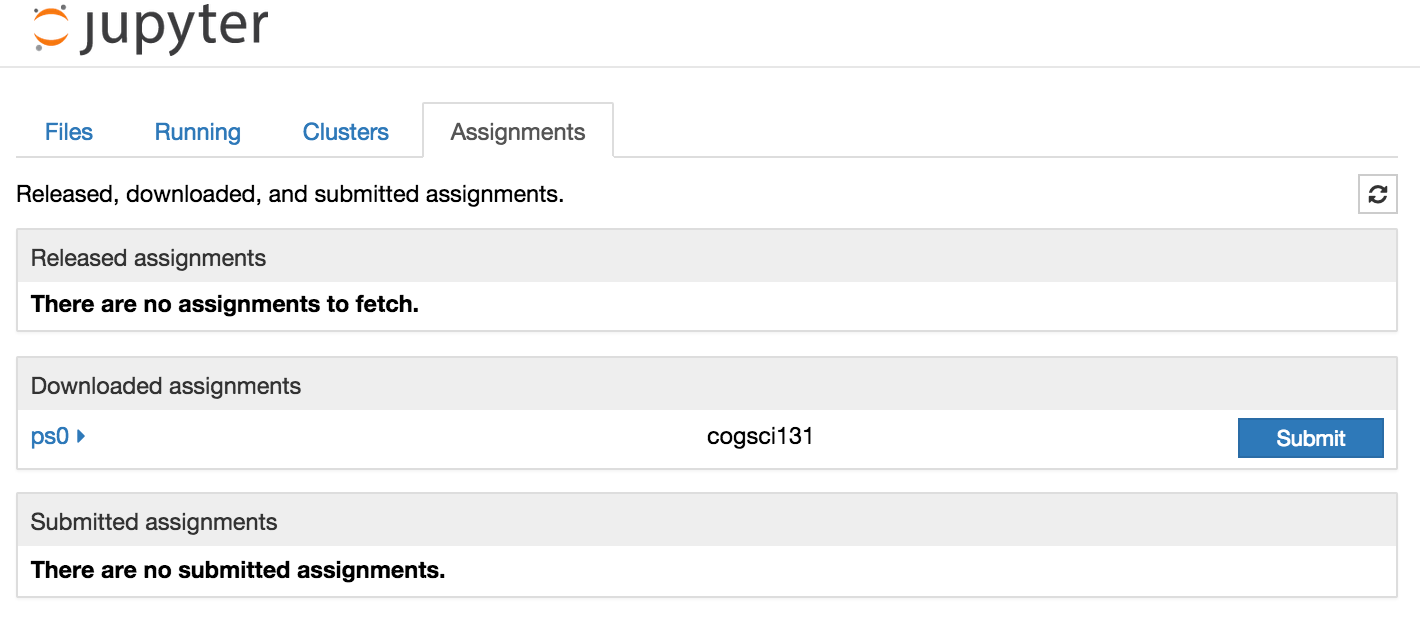
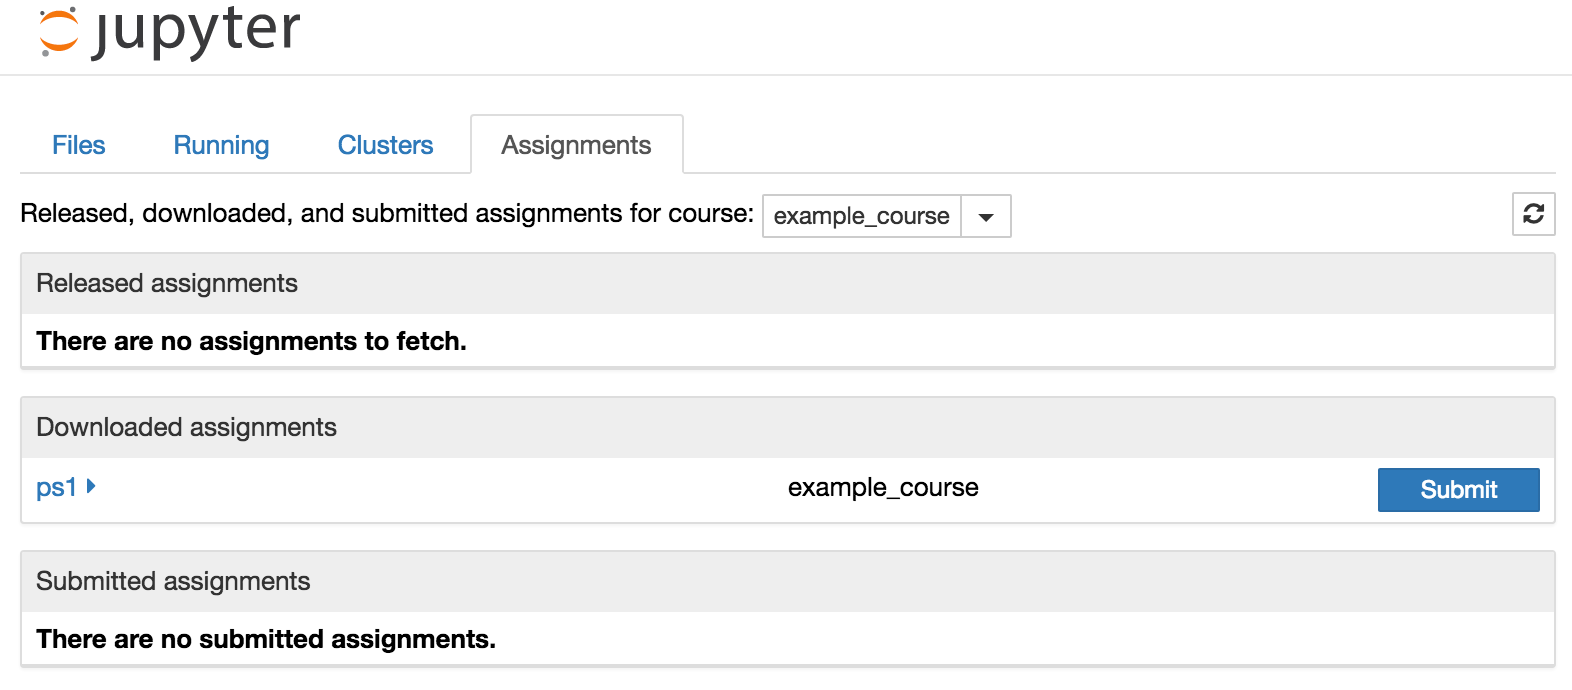
Update documentation pertaining to the assignment list extension

diff --git a/nbgrader/docs/source/user_guide/faq.rst b/nbgrader/docs/source/user_guide/faq.rst
@@ -57,7 +57,9 @@ For this to work, you must include a duedate for the assignment and then a
 ``timestamp.txt`` file in the folder for each submission with a single line
 containing a timestamp (e.g. ``2015-02-02 14:58:23.948203 PST``). Then, when
 you run ``nbgrader autograde``, nbgrader will record these timestamps into the
-database. You can access the timestamps through the API, like so::
+database. You can access the timestamps through the API, like so:
+
+.. code:: python
 
     from nbgrader.api import Gradebook
     gb = Gradebook("sqlite:///gradebook.db")
@@ -99,3 +101,30 @@ How do I get out grade information from the database?
 
 nbgrader offers a fairly rich :doc:`API </api/index>` for interfacing with the
 database. Please see :ref:`getting-information-from-db` for more details.
+
+.. _multiple-classes:
+
+Can I use the "Assignment List" extension with multiple classes?
+----------------------------------------------------------------
+
+Yes, though support for this is currently minimal. To use the "Assignment List"
+extension in multiple courses, you will want to set the following config option
+in your students' ``nbgrader_config.py`` files:
+
+.. code:: python
+
+    c = get_config()
+    c.TransferApp.path_includes_course = True
+
+This will tell the transfer apps (i.e. ``nbgrader fetch``, ``nbgrader submit``,
+and ``nbgrader list``) to assume that the paths for assignments include the
+course name, such as ``./course101/ps1`` rather than just ``./ps1`` (which is
+the default).
+
+Then, when using the "Assignment List" extension, students will be able to
+switch between different classes. However, there is no support currently for
+access control: all students will be able to see all assignments from all
+classes (unless you specifically set the ``course_id`` in the config file, in
+which case they will only be able to see assignments for that specific course).
+See `#544 <https://github.com/jupyter/nbgrader/issues/544>`_ for details.
+:ref:`PRs welcome! <pull-request>`
